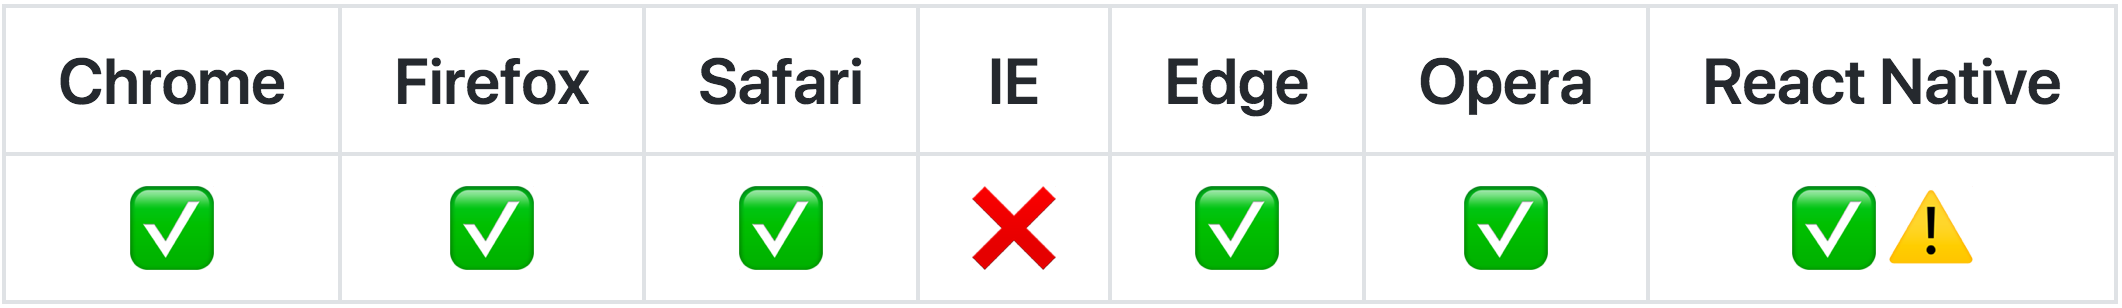
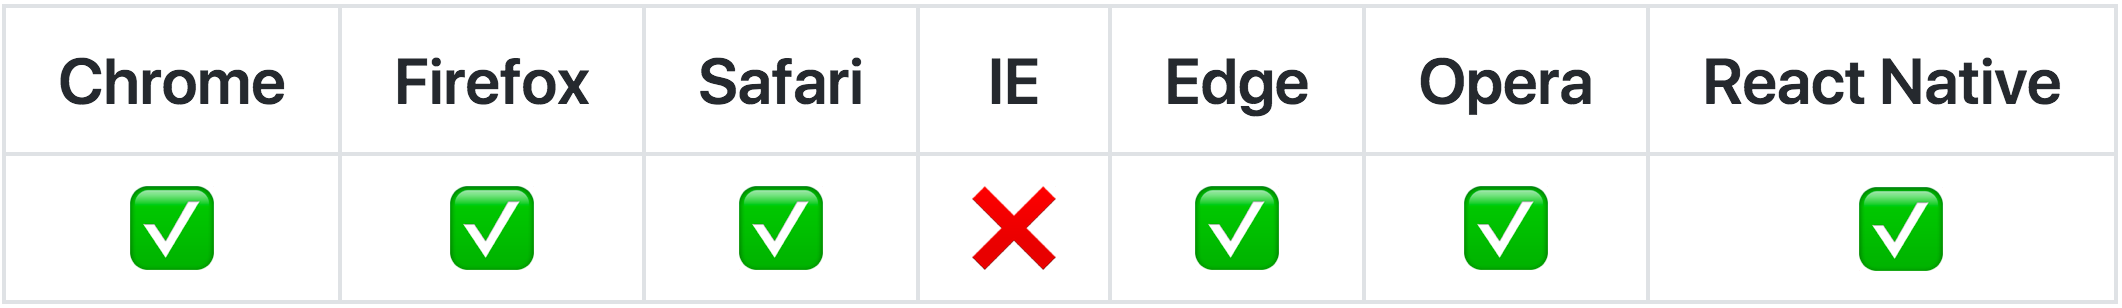
update react-native support info

diff --git a/README.md b/README.md
@@ -442,7 +442,7 @@ export default view(() => {
 })
 ```
 
-**Local stores in functions rely on React hooks. They are supported in React Native `> 0.59` and they require React v16.8.0 to work.**
+**Local stores in functions rely on React hooks. They require React and React DOM v16.8+ or React Native v0.59+ to work.**
 
 <details>
 <summary>You can use any React hook - including <code>useState</code> - in function components, Easy State won't interfere with them.</summary>
@@ -600,12 +600,9 @@ You can compare Easy State with plain React and other state management libraries
 - Safari: 10 and above
 - Edge: 12 and above
 - Opera: 36 and above
-- React Native: iOS 10 and above and Android with [community JSC](https://github.com/SoftwareMansion/jsc-android-buildscripts)
-- IE is not supported and never will be
+- React Native: 0.59 and above
 
 _This library is based on non polyfillable ES6 Proxies. Because of this, it will never support IE._
-
-_React Native is supported on iOS and Android is supported with the community JavaScriptCore. Learn how to set it up [here](https://github.com/SoftwareMansion/jsc-android-buildscripts#how-to-use-it-with-my-react-native-app). It is pretty simple._
 
 ## Alternative builds
 
